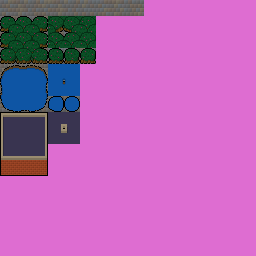
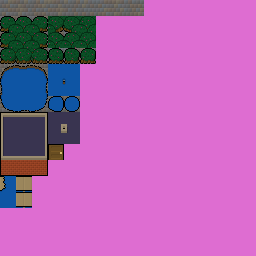
temporary cheat switches to end the war and win the election

Changed region(s): [[0.0, 0.6875, 0.125, 0.8125], [0.1875, 0.5625, 0.25, 0.625]]

diff --git a/src/game/activity.c b/src/game/activity.c
@@ -321,8 +321,19 @@ void game_begin_activity(int activity,int arg,struct sprite *initiator) {
     case NS_activity_bloodbank: begin_bloodbank(initiator,arg); break;
     case NS_activity_fishwife: begin_fishwife(initiator); break;
     case NS_activity_tolltroll: begin_tolltroll(initiator,arg); break;
+    case NS_activity_wargate: begin_dialogue(19,initiator); break; // It's just dialogue. But the activity causes sprite to abort at spawn.
     default: {
         fprintf(stderr,"Unknown activity %d.\n",activity);
       }
   }
+}
+
+/* Abort sprite?
+ */
+ 
+int game_activity_sprite_should_abort(int activity,const struct sprite_type *type) {
+  switch (activity) {
+    case NS_activity_wargate: if (store_get_fld(NS_fld_war_over)) return 1; return 0;
+  }
+  return 0;
 }

diff --git a/src/game/shared_symbols.h b/src/game/shared_symbols.h
@@ -149,6 +149,7 @@
 #define NS_activity_bloodbank 4 /* (u16)price_per_heart */
 #define NS_activity_fishwife 5
 #define NS_activity_tolltroll 6 /* (u16:activity)appearance */
+#define NS_activity_wargate 7 /* (u16)0 ; The guards outside the north tent preventing you from leaving until the war is over. */
 
 #define NS_sprtype_dummy        0 /* (u32)0 */
 #define NS_sprtype_hero         1 /* (u32)0 */
@@ -211,6 +212,8 @@
 #define NS_fld_toll_compass_requested 12
 #define NS_fld_toll_candy_requested 13
 #define NS_fld_toll_paid 14
+#define NS_fld_mayor 15
+#define NS_fld_war_over 16
 
 /* "fld16" are 16 unsigned bits each.
  */

diff --git a/src/game/game.h b/src/game/game.h
@@ -55,6 +55,8 @@ int possessed_quantity_for_itemid(int itemid,int *limit);
  */
 void game_begin_activity(int activity,int arg,struct sprite *initiator);
 
+int game_activity_sprite_should_abort(int activity,const struct sprite_type *type);
+
 /* Partner to NS_activity_tolltroll, so the sprite can set its appearance.
  * Returns itemid, or zero if the troll has already been paid off.
  * Pass this appearance back as (arg) to game_begin_activity(NS_activity_tolltroll).

diff --git a/src/game/sprite/sprite_npc.c b/src/game/sprite/sprite_npc.c
@@ -17,6 +17,7 @@ struct sprite_npc {
 static int _npc_init(struct sprite *sprite) {
   SPRITE->activity=(sprite->arg[0]<<8)|sprite->arg[1];
   SPRITE->activity_arg=(sprite->arg[2]<<8)|sprite->arg[3];
+  if (game_activity_sprite_should_abort(SPRITE->activity,sprite->type)) return -1;
   return 0;
 }
 
